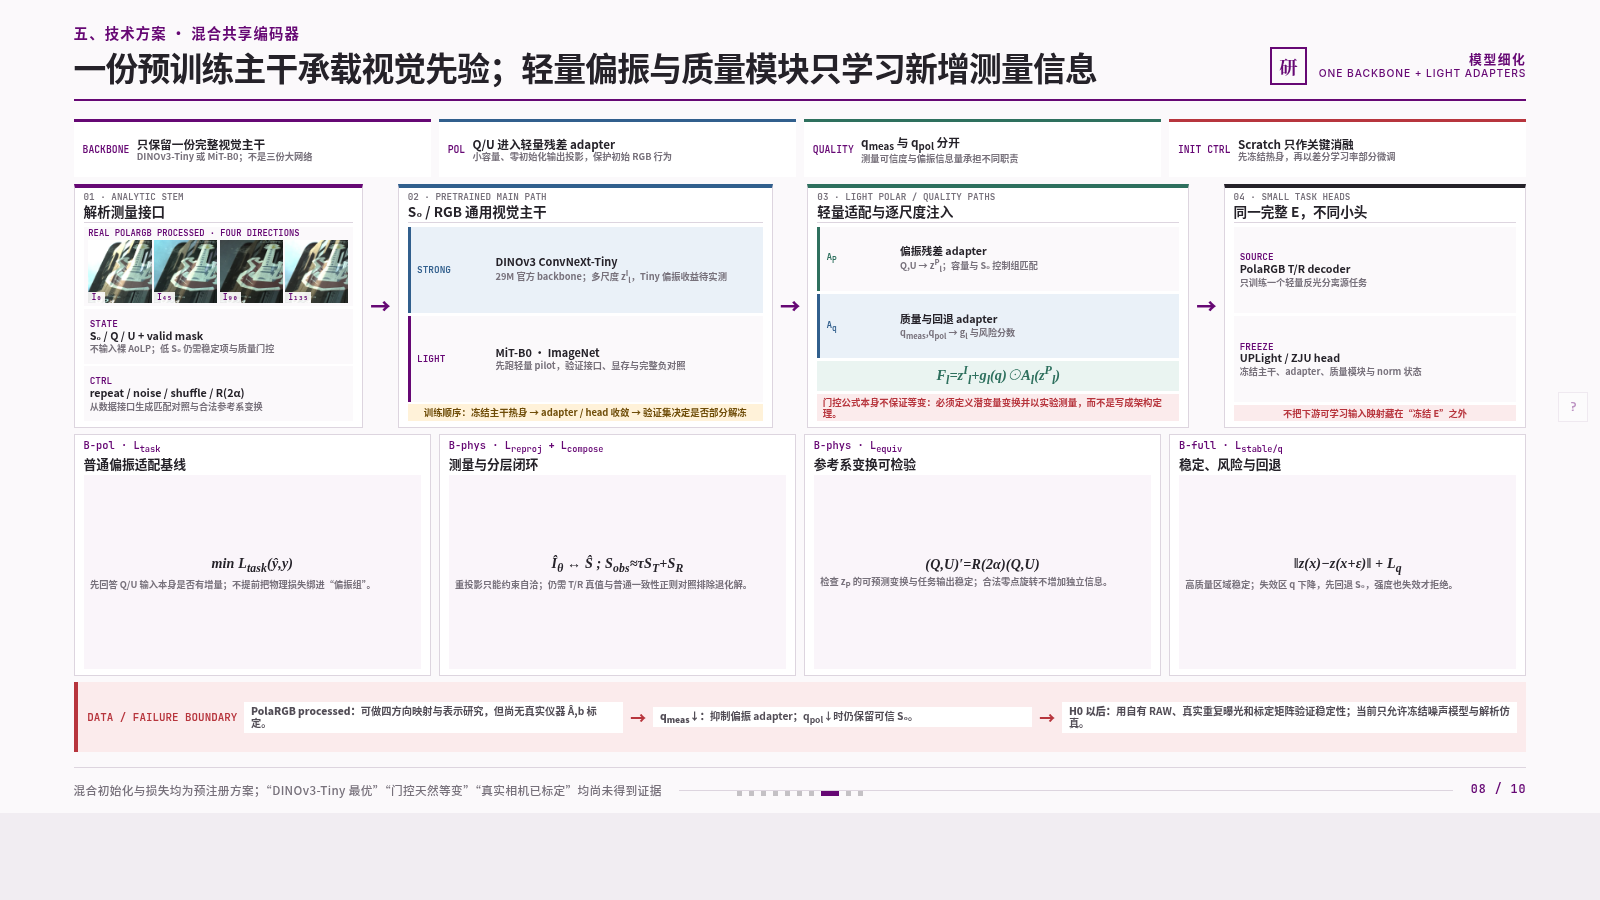
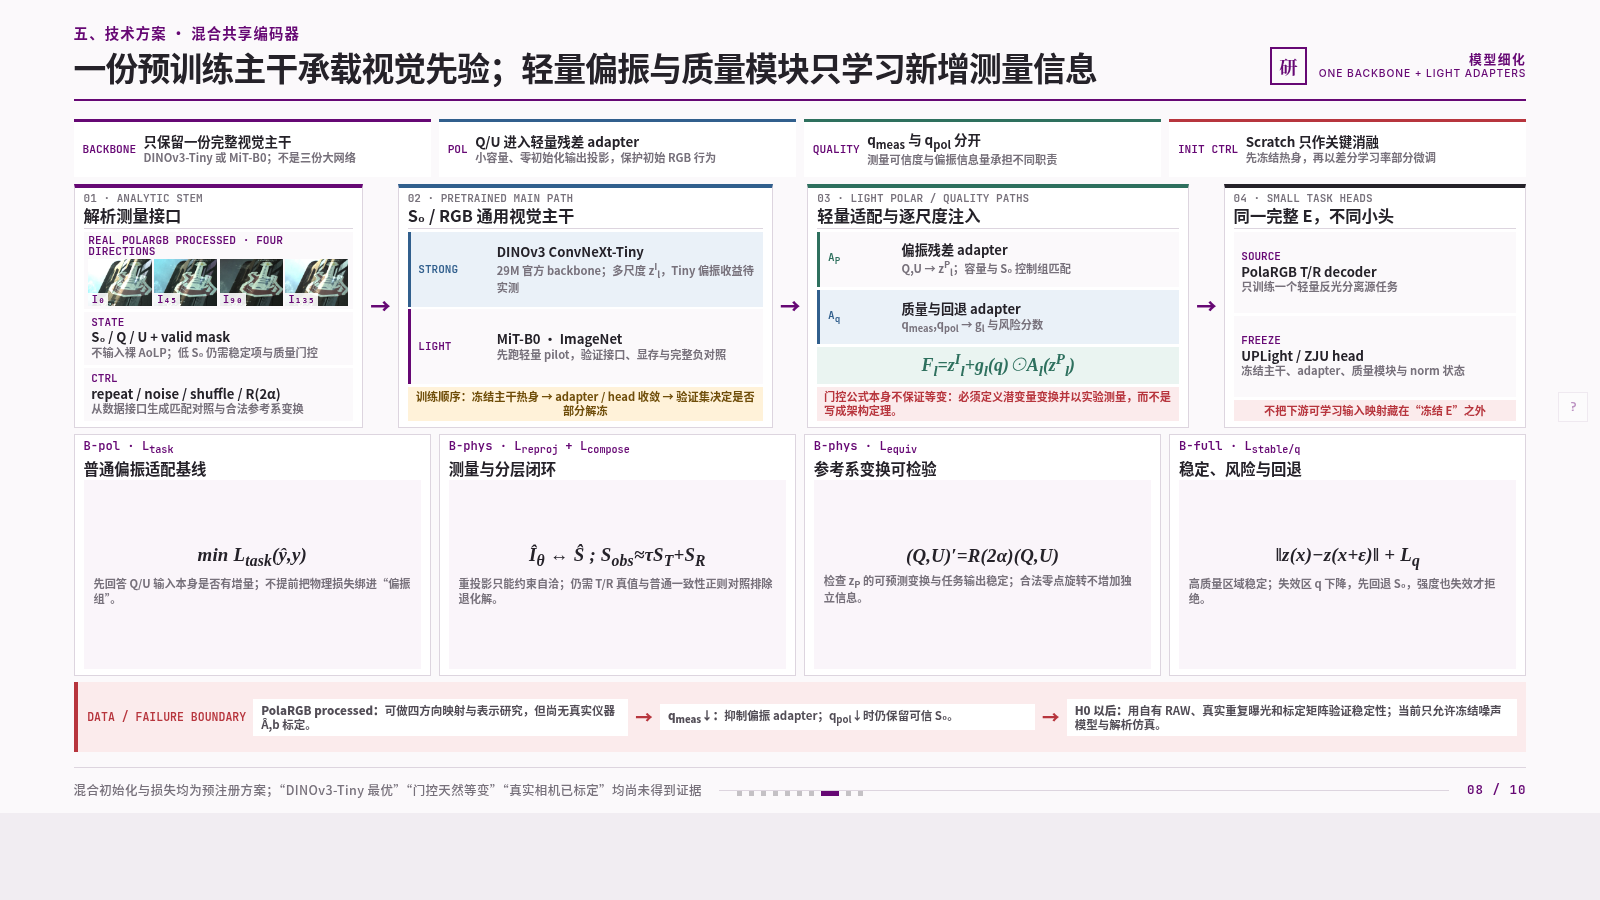
docs: improve method slide legibility

diff --git a/demo/tsinghua-ppt/index.html b/demo/tsinghua-ppt/index.html
@@ -1024,6 +1024,74 @@
   .hybrid-boundary-rail{display:grid;grid-template-columns:auto 1fr auto 1fr auto 1.2fr;gap:.44vw;align-items:center;padding:.55vh .6vw;background:var(--danger-soft);border-left:4px solid var(--danger)}
   .hybrid-boundary-rail>strong{color:var(--danger);font:800 clamp(10px,.68vw,13px)/1.15 var(--mono)}.hybrid-boundary-rail span{padding:.4vh .42vw;background:#fff;color:var(--ink-soft);font:650 clamp(10px,.64vw,12px)/1.2 var(--sans)}.hybrid-boundary-rail em{color:var(--danger);font:800 clamp(15px,1vw,19px)/1 var(--sans);font-style:normal}
 
+  /* 07–08 · 投影可读性放大：内容不变，使用现有留白提高字号与行距 */
+  .prior-route-layout .route-thesis strong{font-size:clamp(12px,.78vw,15px)}
+  .prior-route-layout .route-thesis span{font-size:clamp(15px,.98vw,19px);line-height:1.32}
+  .prior-route-layout .route-thesis em{font-size:clamp(11px,.7vw,13px)}
+  .prior-route-layout .route-stage-head .no{font-size:clamp(27px,1.9vw,37px)}
+  .prior-route-layout .route-stage-head h2{font-size:clamp(16px,1.02vw,20px);line-height:1.18}
+  .prior-route-layout .route-stage-head span{font-size:clamp(11px,.69vw,13px)}
+  .prior-route-layout .route-source{grid-template-columns:4.8em 5.5em 1fr;padding:.6vh .48vw}
+  .prior-route-layout .route-source img{height:6vh;min-height:44px}
+  .prior-route-layout .route-source b,
+  .prior-route-layout .backbone-item b,
+  .prior-route-layout .adapt-step b,
+  .prior-route-layout .route-gate b{font-size:clamp(11px,.69vw,13px)}
+  .prior-route-layout .route-source strong,
+  .prior-route-layout .backbone-item strong,
+  .prior-route-layout .adapt-step strong,
+  .prior-route-layout .route-gate strong{font-size:clamp(13px,.82vw,16px);line-height:1.18}
+  .prior-route-layout .route-source span,
+  .prior-route-layout .backbone-item span,
+  .prior-route-layout .adapt-step span,
+  .prior-route-layout .route-gate span{font-size:clamp(11px,.7vw,14px);line-height:1.24}
+  .prior-route-layout .backbone-item{grid-template-columns:5.2em 1fr;padding:.58vh .5vw}
+  .prior-route-layout .adapt-step{grid-template-columns:4.8em 1fr;padding:.58vh .5vw}
+  .prior-route-layout .route-gate{grid-template-columns:3.1em 1fr;padding:.58vh .5vw}
+  .prior-route-layout .delta-triplet span{font-size:clamp(11px,.72vw,13px);line-height:1.08;padding:.42vh .22vw}
+  .prior-route-layout .route-output{font-size:clamp(11px,.7vw,13px);line-height:1.24;padding:.52vh .46vw}
+  .prior-route-layout .route-bottom>strong{font-size:clamp(12px,.78vw,15px)}
+  .prior-route-layout .route-bottom-cell{font-size:clamp(12px,.76vw,14px);line-height:1.3;padding:.56vh .55vw}
+
+  .hybrid-encoder-layout .hybrid-principle b{font-size:clamp(11px,.7vw,13px)}
+  .hybrid-encoder-layout .hybrid-principle strong{font-size:clamp(13px,.84vw,16px);line-height:1.18}
+  .hybrid-encoder-layout .hybrid-principle span{font-size:clamp(11px,.7vw,13px);line-height:1.24}
+  .hybrid-encoder-layout .hybrid-head span{font-size:clamp(11px,.69vw,13px)}
+  .hybrid-encoder-layout .hybrid-head h2{font-size:clamp(16px,1.02vw,20px);line-height:1.18}
+  .hybrid-encoder-layout .hybrid-input>span{font-size:clamp(11px,.7vw,13px)}
+  .hybrid-encoder-layout .hybrid-input-strip figcaption{font-size:clamp(11px,.68vw,12px)}
+  .hybrid-encoder-layout .hybrid-node b,
+  .hybrid-encoder-layout .adapter-node b,
+  .hybrid-encoder-layout .head-node b,
+  .hybrid-encoder-layout .backbone-candidate b{font-size:clamp(11px,.69vw,13px)}
+  .hybrid-encoder-layout .hybrid-node strong,
+  .hybrid-encoder-layout .adapter-node strong,
+  .hybrid-encoder-layout .head-node strong,
+  .hybrid-encoder-layout .backbone-candidate strong{font-size:clamp(13px,.82vw,16px);line-height:1.18}
+  .hybrid-encoder-layout .hybrid-node span,
+  .hybrid-encoder-layout .adapter-node span,
+  .hybrid-encoder-layout .head-node span,
+  .hybrid-encoder-layout .backbone-candidate span{font-size:clamp(11px,.7vw,14px);line-height:1.24}
+  .hybrid-encoder-layout .hybrid-node,
+  .hybrid-encoder-layout .adapter-node,
+  .hybrid-encoder-layout .head-node,
+  .hybrid-encoder-layout .backbone-candidate{padding:.56vh .48vw}
+  .hybrid-encoder-layout .backbone-training,
+  .hybrid-encoder-layout .equiv-warning,
+  .hybrid-encoder-layout .head-lock-new{font-size:clamp(11px,.7vw,13px);line-height:1.22;padding:.46vh .42vw}
+  .hybrid-encoder-layout .fusion-equation-new{font-size:clamp(17px,1.12vw,22px);padding:.5vh .4vw}
+  .hybrid-encoder-layout .objective-card .oid{font-size:clamp(12px,.76vw,14px)}
+  .hybrid-encoder-layout .objective-card h3{font-size:clamp(15px,.96vw,18px);line-height:1.2}
+  .hybrid-encoder-layout .objective-card div{font-size:clamp(12px,.76vw,14px);line-height:1.3;padding:.8vh .62vw}
+  .hybrid-encoder-layout .objective-card .math{font-size:clamp(18px,1.18vw,23px);line-height:1.2}
+  .hybrid-encoder-layout .objective-card small{font-size:clamp(11px,.7vw,13px);line-height:1.3;margin-top:.65vh}
+  .hybrid-encoder-layout .hybrid-boundary-rail>strong{font-size:clamp(11px,.72vw,14px)}
+  .hybrid-encoder-layout .hybrid-boundary-rail span{font-size:clamp(11px,.72vw,14px);line-height:1.26;padding:.5vh .5vw}
+  .hybrid-encoder-layout .hybrid-boundary-rail em{font-size:clamp(17px,1.1vw,21px)}
+  [data-slide-id="foundation-adaptation-route"] .thu-footer,
+  [data-slide-id="hybrid-polarization-encoder"] .thu-footer{font-size:clamp(12px,.78vw,15px)}
+  [data-slide-id="foundation-adaptation-route"] .thu-page{--header-h:14.8vh}
+
   /* 09 · 外部能力、同底座归因与冻结迁移分离报告 */
   .proof-separation-layout{height:100%;display:grid;grid-template-columns:1fr;grid-template-rows:7.1vh minmax(0,1fr) 9.6vh;gap:.8vh}
   .proof-lock{display:grid;grid-template-columns:auto repeat(6,1fr) auto;gap:.34vw;align-items:stretch;padding:.58vh .6vw;background:var(--accent);color:#fff}.proof-lock>strong{display:grid;place-items:center;padding:0 .3vw;font:800 clamp(10px,.68vw,13px)/1.15 var(--mono)}.proof-lock span{display:grid;place-items:center;padding:.36vh .28vw;background:rgba(255,255,255,.12);text-align:center;font:700 clamp(9px,.58vw,11px)/1.12 var(--sans)}.proof-lock em{display:grid;place-items:center;padding:0 .4vw;background:rgba(255,255,255,.15);font:750 clamp(9px,.58vw,11px)/1.12 var(--mono);font-style:normal;white-space:nowrap}
